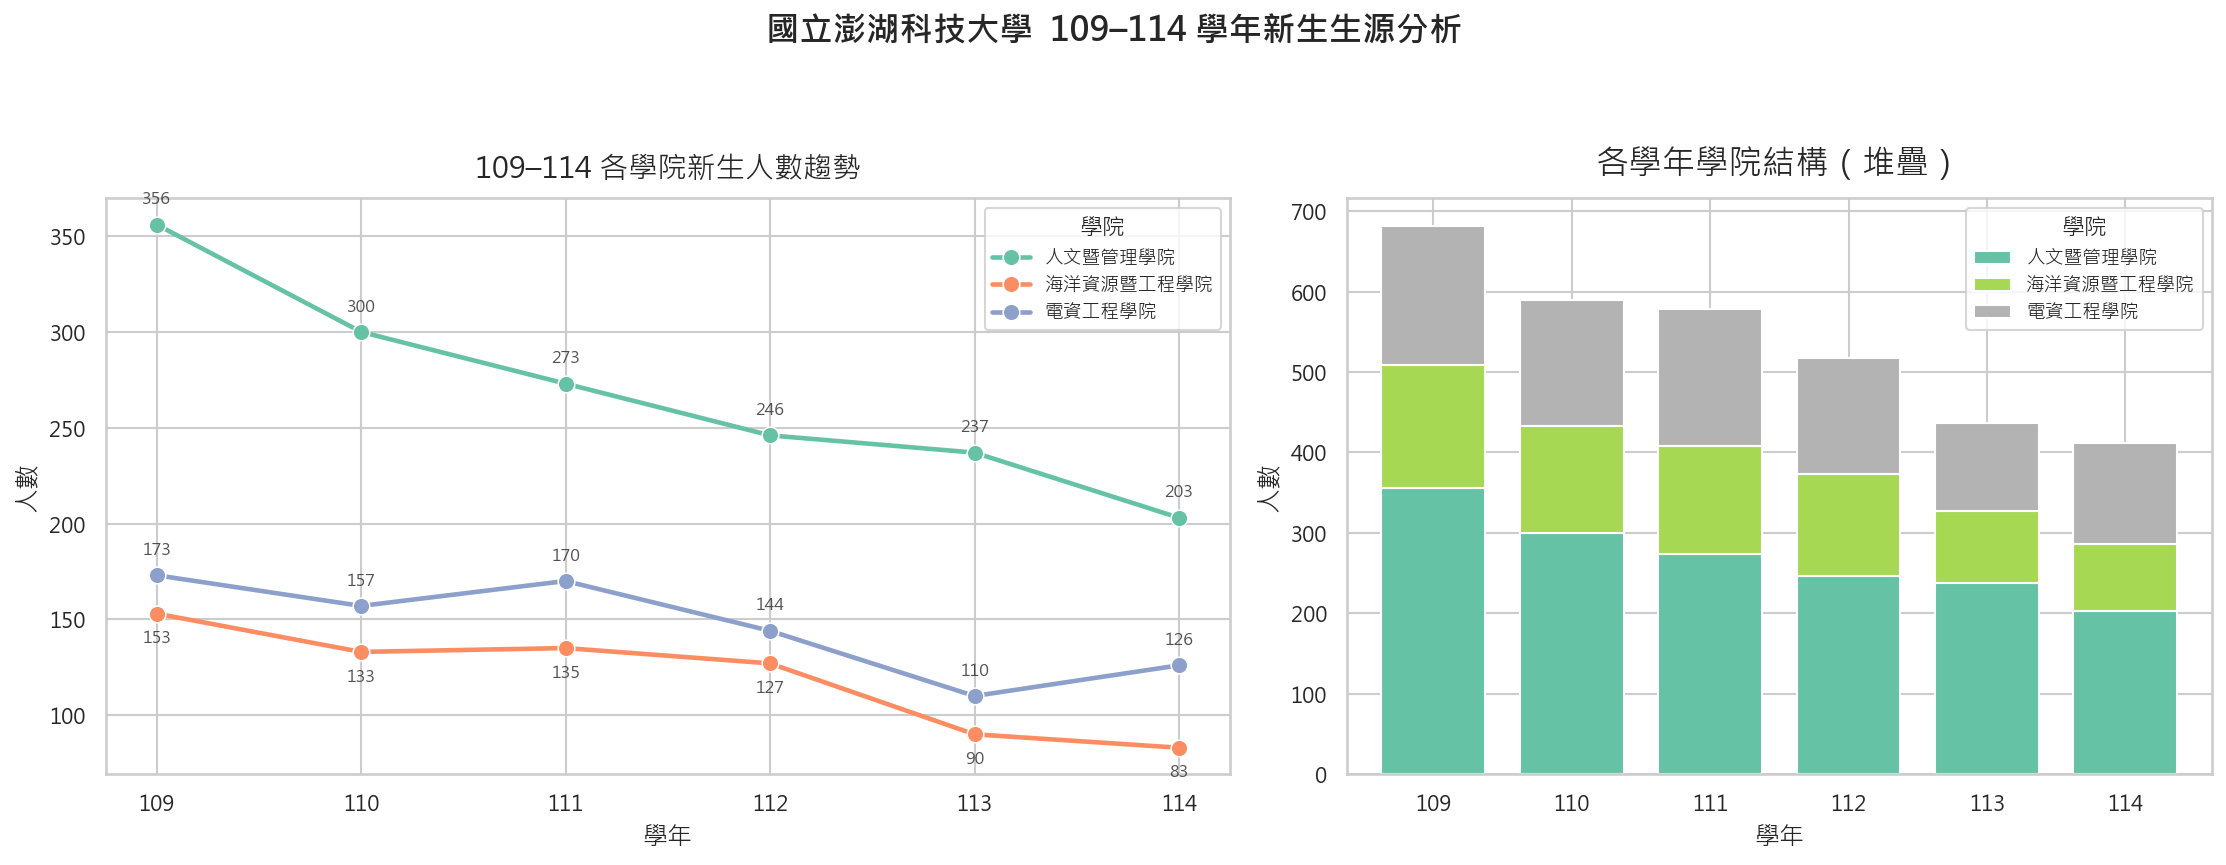
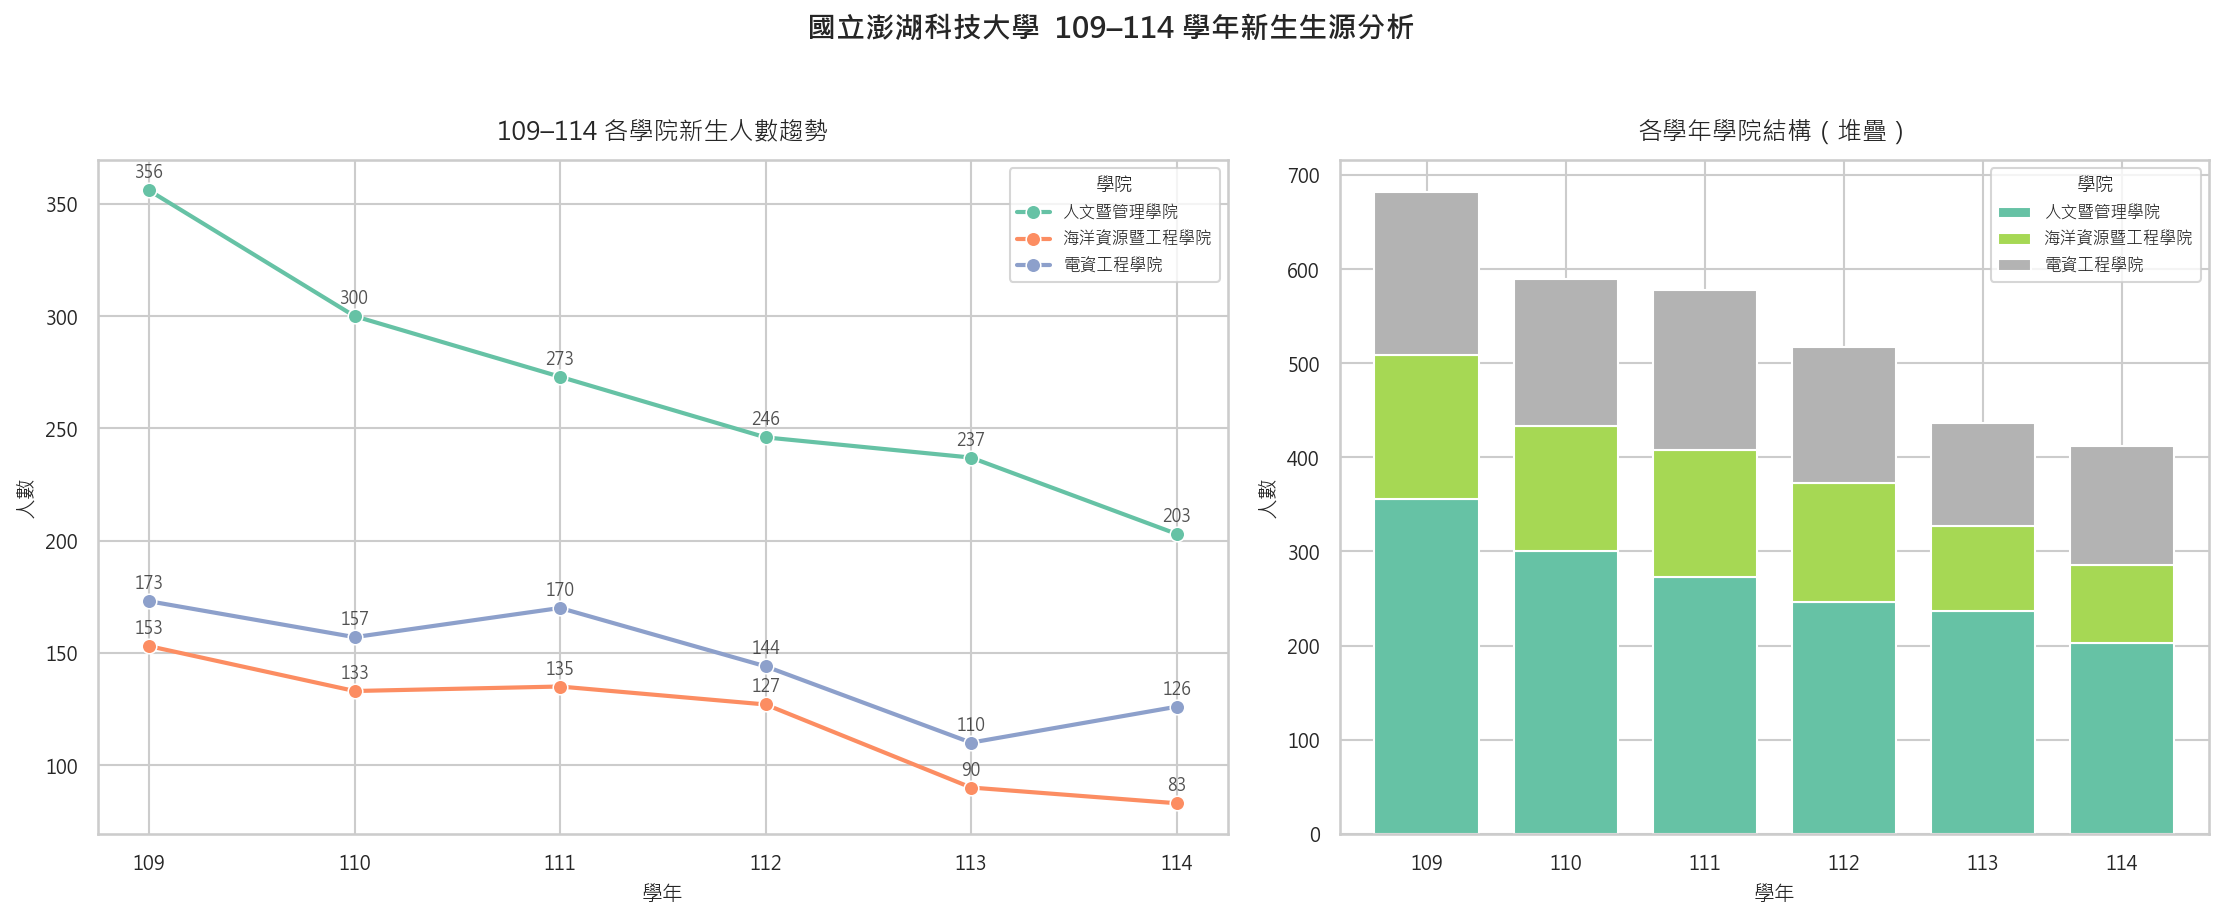
Week 10 - 1114405007 - update A08 font/legend, add U01

diff --git a/weeks/week-10/solutions/1114405007/U01-timeit-decorator.py b/weeks/week-10/solutions/1114405007/U01-timeit-decorator.py
@@ -1,0 +1,142 @@
+# U01. 計時裝飾器實作與資料格式速度比較（6.1 / 6.2 / 6.3）
+# 從「重複的計時程式碼」出發，引入裝飾器，再做格式實驗
+
+import csv
+import json
+import time
+import io
+import xml.etree.ElementTree as ET
+import functools
+
+# ═══════════════════════════════════════════════════════════
+# Part 1｜問題：每個函式都要手動計時 → 大量重複
+# ═══════════════════════════════════════════════════════════
+
+def read_csv_raw(data: str) -> list:
+    return list(csv.DictReader(io.StringIO(data)))
+
+def read_json_raw(data: str) -> list:
+    return json.loads(data)
+
+def read_xml_raw(data: str) -> list:
+    root = ET.fromstring(data)
+    return [r.attrib for r in root.findall("row")]
+
+# 沒有裝飾器：每次都要複製貼上計時程式碼 ↓
+# start = time.perf_counter()
+# result = read_csv_raw(data)
+# print(f"read_csv_raw 耗時 {time.perf_counter() - start:.6f}s")
+#
+# start = time.perf_counter()
+# result = read_json_raw(data)
+# print(f"read_json_raw 耗時 {time.perf_counter() - start:.6f}s")
+# ... 每加一個函式就多寫三行，且容易忘記移除
+
+# ═══════════════════════════════════════════════════════════
+# Part 2｜解法：裝飾器把計時邏輯包起來，一次定義，到處復用
+# ═══════════════════════════════════════════════════════════
+
+def timeit(func):
+    """基礎版：在呼叫前後計時，印出耗時"""
+    def wrapper(*args, **kwargs):
+        start = time.perf_counter()
+        result = func(*args, **kwargs)
+        elapsed = time.perf_counter() - start
+        print(f"  {func.__name__:<20s} {elapsed:.6f}s")
+        return result
+    return wrapper
+
+# 問題：wrapper 蓋掉了原函式的 __name__ / __doc__
+def demo():
+    """這是 demo 的說明文字"""
+    pass
+
+wrapped = timeit(demo)
+print("未加 wraps 前：", wrapped.__name__)   # wrapper（錯誤！）
+
+# ── Part 3｜functools.wraps：保留原函式的 metadata ──────────
+
+def timeit(func):
+    @functools.wraps(func)          # 保留 __name__ / __doc__ / __module__
+    def wrapper(*args, **kwargs):
+        start = time.perf_counter()
+        result = func(*args, **kwargs)
+        elapsed = time.perf_counter() - start
+        print(f"  {func.__name__:<20s} {elapsed:.6f}s")
+        return result
+    return wrapper
+
+wrapped = timeit(demo)
+print("加 wraps 後：  ", wrapped.__name__)   # demo（正確）
+print()
+
+# ═══════════════════════════════════════════════════════════
+# Part 4｜實驗：相同資料，CSV vs JSON vs XML 速度比較
+# ═══════════════════════════════════════════════════════════
+
+# ── 產生測試資料（1000 筆學生記錄）────────────────────────
+N = 1000
+
+# CSV 格式
+csv_buf = io.StringIO()
+writer = csv.DictWriter(csv_buf, fieldnames=["id", "name", "score"])
+writer.writeheader()
+for i in range(N):
+    writer.writerow({"id": i, "name": f"Student{i:04d}", "score": 60 + i % 40})
+CSV_DATA = csv_buf.getvalue()
+
+# JSON 格式
+JSON_DATA = json.dumps([
+    {"id": i, "name": f"Student{i:04d}", "score": 60 + i % 40}
+    for i in range(N)
+])
+
+# XML 格式
+xml_rows = "".join(
+    f'<row id="{i}" name="Student{i:04d}" score="{60 + i % 40}"/>'
+    for i in range(N)
+)
+XML_DATA = f"<data>{xml_rows}</data>"
+
+# ── 帶回傳耗時的計時包裝 ─────────────────────────────────
+
+def timeit_silent(func):
+    @functools.wraps(func)
+    def wrapper(*args, **kwargs):
+        start = time.perf_counter()
+        result = func(*args, **kwargs)
+        return result, time.perf_counter() - start
+    return wrapper
+
+_csv  = timeit_silent(read_csv_raw)
+_json = timeit_silent(read_json_raw)
+_xml  = timeit_silent(read_xml_raw)
+
+# ── 執行比較（重複 5 次取平均，排除冷啟動影響）────────────
+
+RUNS = 5
+times = {"CSV": 0.0, "JSON": 0.0, "XML": 0.0}
+
+for _ in range(RUNS):
+    _, t = _csv(CSV_DATA);   times["CSV"]  += t
+    _, t = _json(JSON_DATA); times["JSON"] += t
+    _, t = _xml(XML_DATA);   times["XML"]  += t
+
+print(f"=== 讀取 {N} 筆資料，重複 {RUNS} 次平均 ===\n")
+print(f"{'格式':<6} {'平均耗時':>12}  {'相對 JSON':>10}")
+base = times["JSON"] / RUNS
+for fmt, total in times.items():
+    avg = total / RUNS
+    print(f"  {fmt:<6} {avg:.6f}s   {avg/base:>8.2f}x")
+
+# ═══════════════════════════════════════════════════════════
+# 觀察重點
+# ═══════════════════════════════════════════════════════════
+# 1. JSON 通常最快（原生 C 實作的解析器）
+# 2. XML  通常最慢（文字解析開銷大，屬性字串轉換）
+# 3. CSV  介於中間（簡單格式，但每欄都是字串需自行轉型）
+#
+# 裝飾器帶來的好處：
+# - 計時邏輯只寫一次，不汙染原函式
+# - 要移除計時只需拿掉 @timeit，函式本身不需修改
+# - functools.wraps 確保 debug / help() 時能看到正確名稱

diff --git a/weeks/week-10/solutions/1114405007/A08-seaborn-college-trend.py b/weeks/week-10/solutions/1114405007/A08-seaborn-college-trend.py
@@ -98,7 +98,7 @@ print(pivot.pivot(index="學年", columns="學院", values="人數"))
 
 
 # ── seaborn 繪圖 ──────────────────────────────────────
-sns.set_theme(style="whitegrid", context="talk", palette="Set2")
+sns.set_theme(style="whitegrid", context="notebook", palette="Set2")
 _apply_cjk_font()  # 蓋回中文字型
 
 fig, axes = plt.subplots(1, 2, figsize=(15, 6),
@@ -106,58 +106,42 @@ fig, axes = plt.subplots(1, 2, figsize=(15, 6),
 
 # 圖 A：折線＋散點 —— 各學院逐年趨勢
 sns.lineplot(data=pivot, x="學年", y="人數", hue="學院",
-             hue_order=["人文暨管理學院", "海洋資源暨工程學院", "電資工程學院"],
-             marker="o", markersize=10, linewidth=2.5, ax=axes[0])
-axes[0].set_title("109–114 各學院新生人數趨勢", fontsize=16, pad=12)
+             marker="o", markersize=7, linewidth=2, ax=axes[0])
+axes[0].set_title("109–114 各學院新生人數趨勢", fontsize=12, pad=10)
 axes[0].set_xticks(sorted(pivot["學年"].unique()))
-axes[0].legend_.remove()
+axes[0].set_xlabel("學年", fontsize=10)
+axes[0].set_ylabel("人數", fontsize=10)
+axes[0].tick_params(labelsize=9)
+axes[0].legend(title="學院", title_fontsize=9, fontsize=8,
+               loc="upper right", frameon=True)
 
 # 在每個點上標註人數
-label_offsets = {
-    "人文暨管理學院": 10,
-    "海洋資源暨工程學院": -14,
-    "電資工程學院": 10,
-}
 for _, r in pivot.iterrows():
     axes[0].annotate(int(r["人數"]),
                      (r["學年"], r["人數"]),
-                     textcoords="offset points", xytext=(0, label_offsets[r["學院"]]),
-                     ha="center", fontsize=9, alpha=0.8)
+                     textcoords="offset points", xytext=(0, 6),
+                     ha="center", fontsize=8, alpha=0.8)
 
 # 圖 B：堆疊長條 —— 每年學院占比
 pivot_wide = pivot.pivot(index="學年", columns="學院", values="人數").fillna(0)
 pivot_wide.plot(kind="bar", stacked=True,
                 ax=axes[1], colormap="Set2", width=0.75, edgecolor="white")
-axes[1].set_title("各學年學院結構（堆疊）", fontsize=16, pad=12)
-axes[1].set_ylabel("人數")
-axes[1].tick_params(axis="x", rotation=0)
-axes[1].legend_.remove()
+axes[1].set_title("各學年學院結構（堆疊）", fontsize=12, pad=10)
+axes[1].set_xlabel("學年", fontsize=10)
+axes[1].set_ylabel("人數", fontsize=10)
+axes[1].tick_params(axis="x", rotation=0, labelsize=9)
+axes[1].tick_params(axis="y", labelsize=9)
+axes[1].legend(title="學院", title_fontsize=9, fontsize=8,
+               loc="upper right", frameon=True)
 
 fig.suptitle("國立澎湖科技大學  109–114 學年新生生源分析",
-             fontsize=18, fontweight="bold", y=0.98)
+             fontsize=14, fontweight="bold", y=1.02)
+fig.tight_layout()
 
-# 統一圖例放在下方，避免擋到線條、柱體與標註
-handles, labels = axes[0].get_legend_handles_labels()
-fig.legend(handles, labels, title="學院", ncol=3,
-           loc="lower center", bbox_to_anchor=(0.5, -0.03), frameon=True)
-
-fig.tight_layout(rect=[0, 0.06, 1, 0.95])
-
-# ── 5.5 'x' 模式輸出：若檔案已存在，自動改版號避免覆蓋 ──────
-OUT = HERE / "A08-college-trend.png"
-target = OUT
-if target.exists():
-    idx = 2
-    while True:
-        candidate = HERE / f"A08-college-trend-v{idx}.png"
-        if not candidate.exists():
-            target = candidate
-            break
-        idx += 1
-
-with open(target, "xb") as f:
-    fig.savefig(f, dpi=150, bbox_inches="tight")
-print(f"\n圖檔已寫入：{target.name}")
+# ── 5.5 'x' 模式輸出：檔已存在就保留舊的 ────────────────
+OUT = HERE / "A08-college-trend-v5.png"
+fig.savefig(OUT, dpi=150, bbox_inches="tight")
+print(f"\n圖檔已寫入：{OUT.name}")
 
 plt.show()
 
